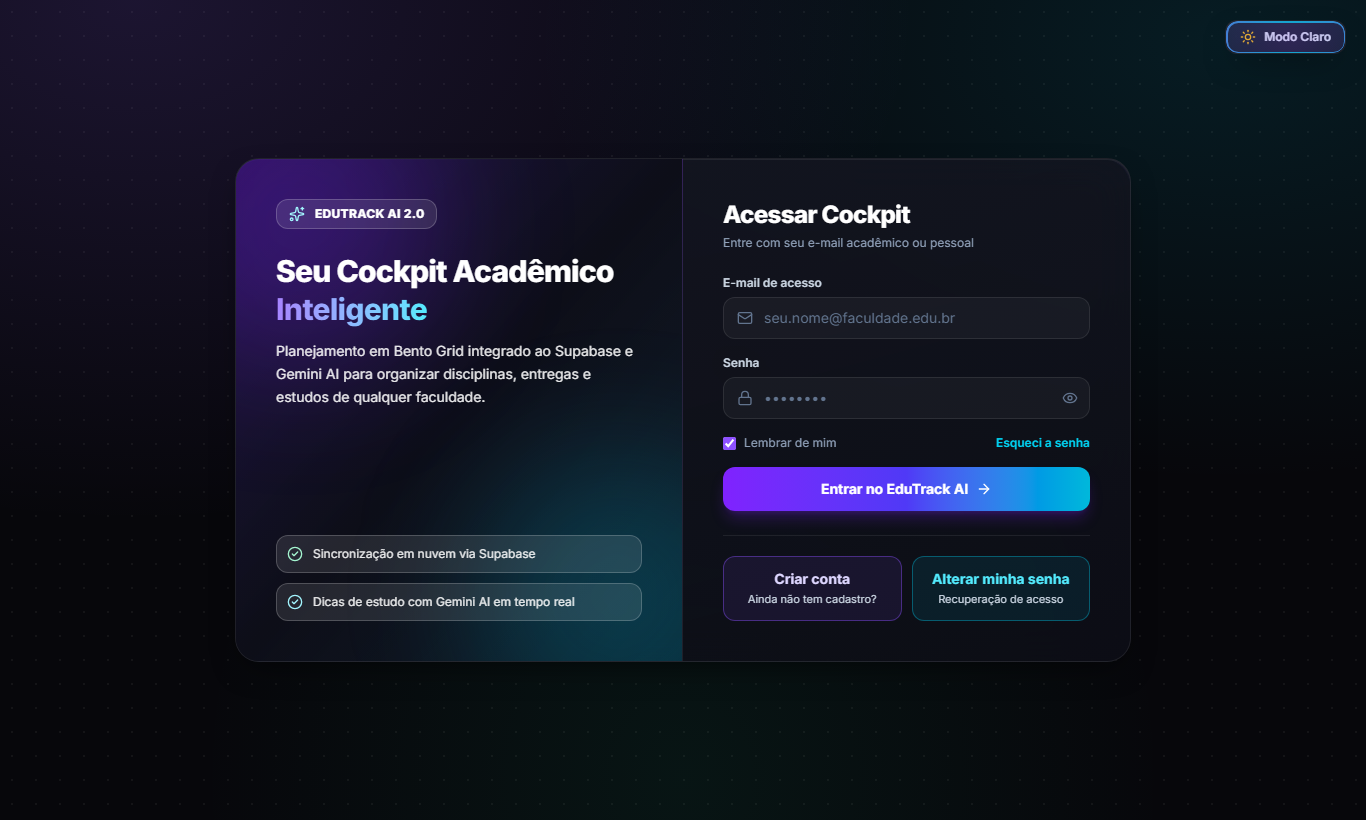
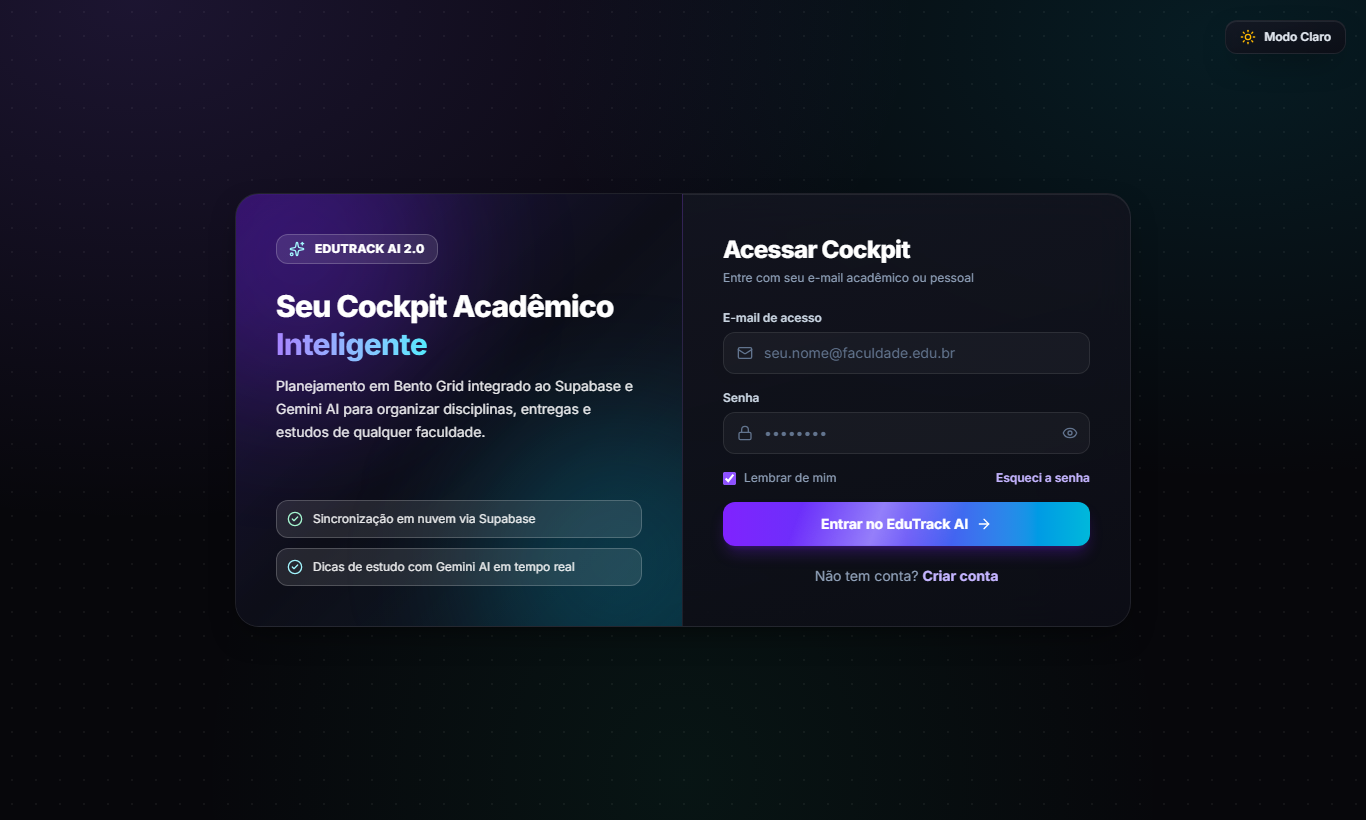
fix: remove redundant change-password button and clarify login e-mail messages
The 'Alterar minha senha' button opened /reset-password directly, which is only the landing page of the e-mailed recovery link and fails without a recovery session; 'Esqueci a senha' already starts that flow. Replace the two-button grid with a single 'Nao tem conta? Criar conta' line, and drop 'institucional' from e-mail validation messages since personal e-mails are accepted. Updates login screenshots.

diff --git a/src/views/LoginView.tsx b/src/views/LoginView.tsx
@@ -47,7 +47,7 @@ export const LoginView: React.FC = () => {
     const trimmedEmail = email.trim();
 
     if (!trimmedEmail || !password) {
-      setErrorMessage('Por favor, preencha o e-mail institucional e a senha.');
+      setErrorMessage('Por favor, preencha o e-mail e a senha.');
       return;
     }
 
@@ -77,7 +77,7 @@ export const LoginView: React.FC = () => {
     setErrorMessage(null);
 
     if (!trimmedEmail || !password) {
-      setErrorMessage('Por favor, preencha o e-mail institucional e a senha para cadastrar.');
+      setErrorMessage('Por favor, preencha o e-mail e a senha para cadastrar.');
       return;
     }
 
@@ -103,12 +103,12 @@ export const LoginView: React.FC = () => {
 
     const cleanEmail = email.trim().toLowerCase();
     if (!cleanEmail) {
-      setErrorMessage('Por favor, preencha o e-mail institucional para receber o link de recuperação de senha.');
+      setErrorMessage('Digite seu e-mail no campo acima para receber o link de recuperação de senha.');
       return;
     }
 
     if (!EMAIL_REGEX.test(cleanEmail)) {
-      setErrorMessage('Por favor, informe um endereço de e-mail institucional válido.');
+      setErrorMessage('Digite um e-mail válido no campo acima para receber o link de recuperação de senha.');
       return;
     }
 
@@ -288,23 +288,16 @@ export const LoginView: React.FC = () => {
             </button>
           </form>
 
-          <div className="mt-6 pt-5 border-t border-white/[0.08] grid grid-cols-1 sm:grid-cols-2 gap-2.5">
+          <p className="mt-5 text-center text-sm text-slate-400">
+            Não tem conta?{' '}
             <Link
               to="/cadastro"
               onClick={handleRegister}
-              className="flex flex-col items-center justify-center gap-0.5 px-4 py-3 rounded-xl border border-violet-500/40 bg-violet-500/10 hover:bg-violet-500/20 text-center transition-colors"
+              className="font-bold text-violet-300 hover:underline underline-offset-4 rounded focus:outline-none focus-visible:ring-2 focus-visible:ring-violet-500"
             >
-              <span className="text-sm font-bold text-violet-200">Criar conta</span>
-              <span className="text-[11px] text-slate-300">Ainda não tem cadastro?</span>
+              Criar conta
             </Link>
-            <Link
-              to="/reset-password"
-              className="flex flex-col items-center justify-center gap-0.5 px-4 py-3 rounded-xl border border-cyan-500/40 bg-cyan-500/10 hover:bg-cyan-500/20 text-center transition-colors"
-            >
-              <span className="text-sm font-bold text-cyan-300">Alterar minha senha</span>
-              <span className="text-[11px] text-slate-300">Recuperação de acesso</span>
-            </Link>
-          </div>
+          </p>
         </div>
         </div>
       </div>
